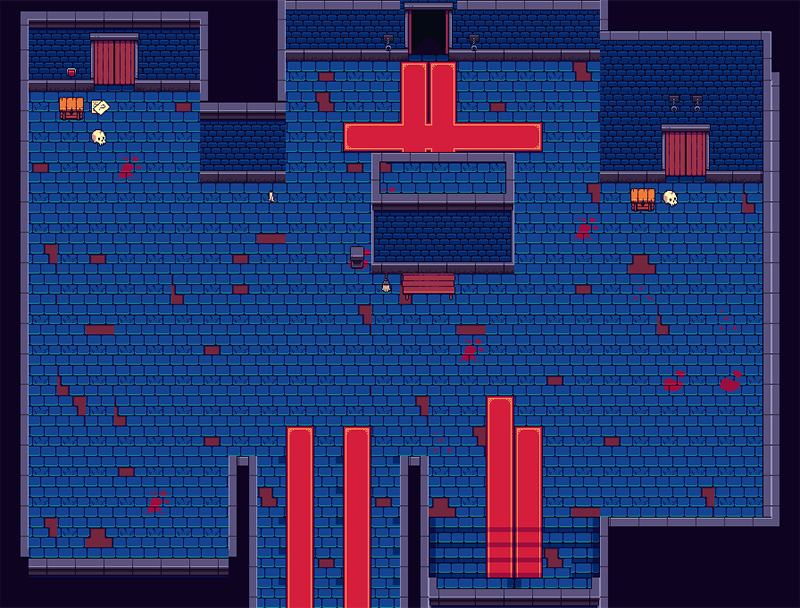
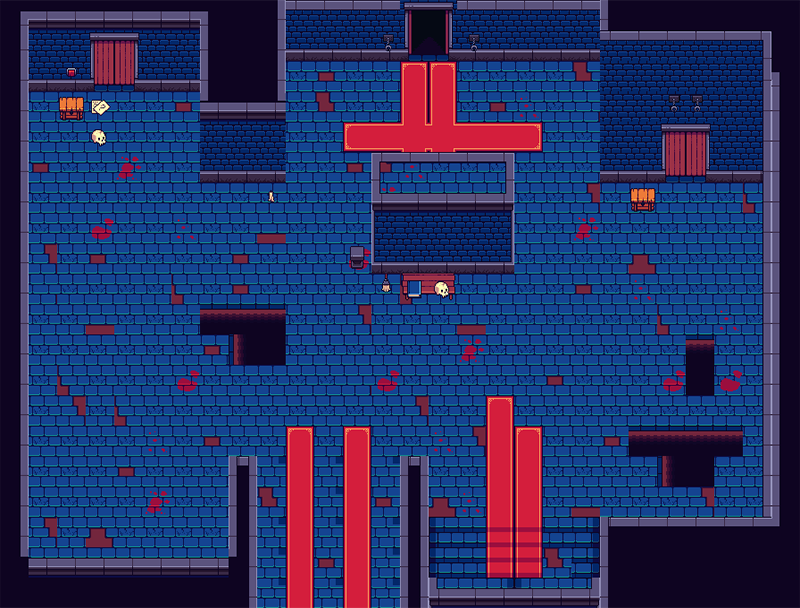
added last level

diff --git a/js/main.js b/js/main.js
@@ -150,6 +150,7 @@ gameWindow.onclick = function (e) {
                             gameState.door4locked = false;
                             changeInventory('Golden key', 'delete');
                             console.log('Door unlocked!');
+                            changeBackgroundImage("assets/img/project3.png");
                             
                         
                         } else {

diff --git a/css/main.css b/css/main.css
@@ -75,8 +75,8 @@ p {
 }
 #door3 {
     width: 260px;
-    height: 160px;
-    top: 210px;
+    height: 360px;
+    top: 0px;
     left: 540px;
 }
 #door4 {
@@ -119,8 +119,8 @@ p {
 #statue {
     width: 32px;
     height: 32px;
-    top: 181px;
-    left: 653px;
+    top: 266px;
+    left: 422px;
 }
 
 

diff --git a/index.html b/index.html
@@ -56,6 +56,7 @@
       
         <div id="key2" class="foreground"></div>
         <div id="chest2" class="foreground"></div>
+        
         <div id="door3" class="foreground"></div>
         <div id="key3" class="foreground"></div>
         <div id="chest3" class="foreground"></div>
